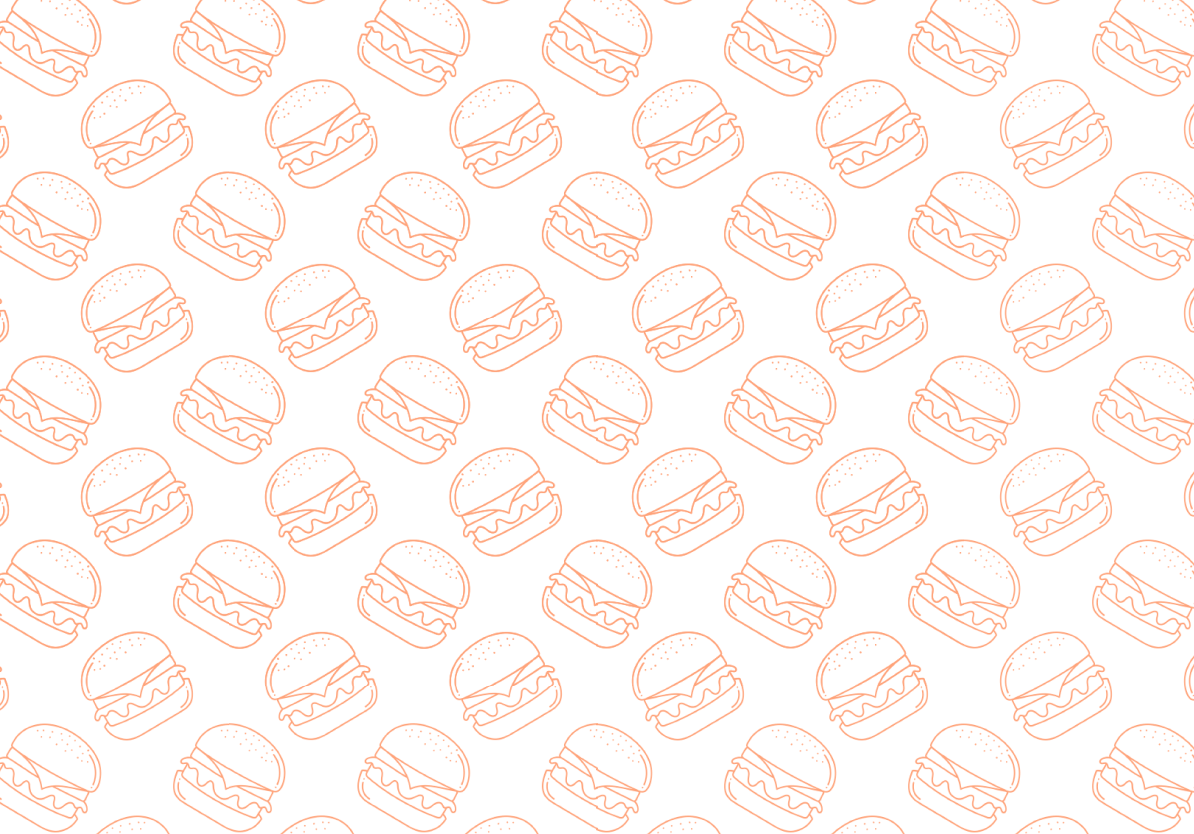
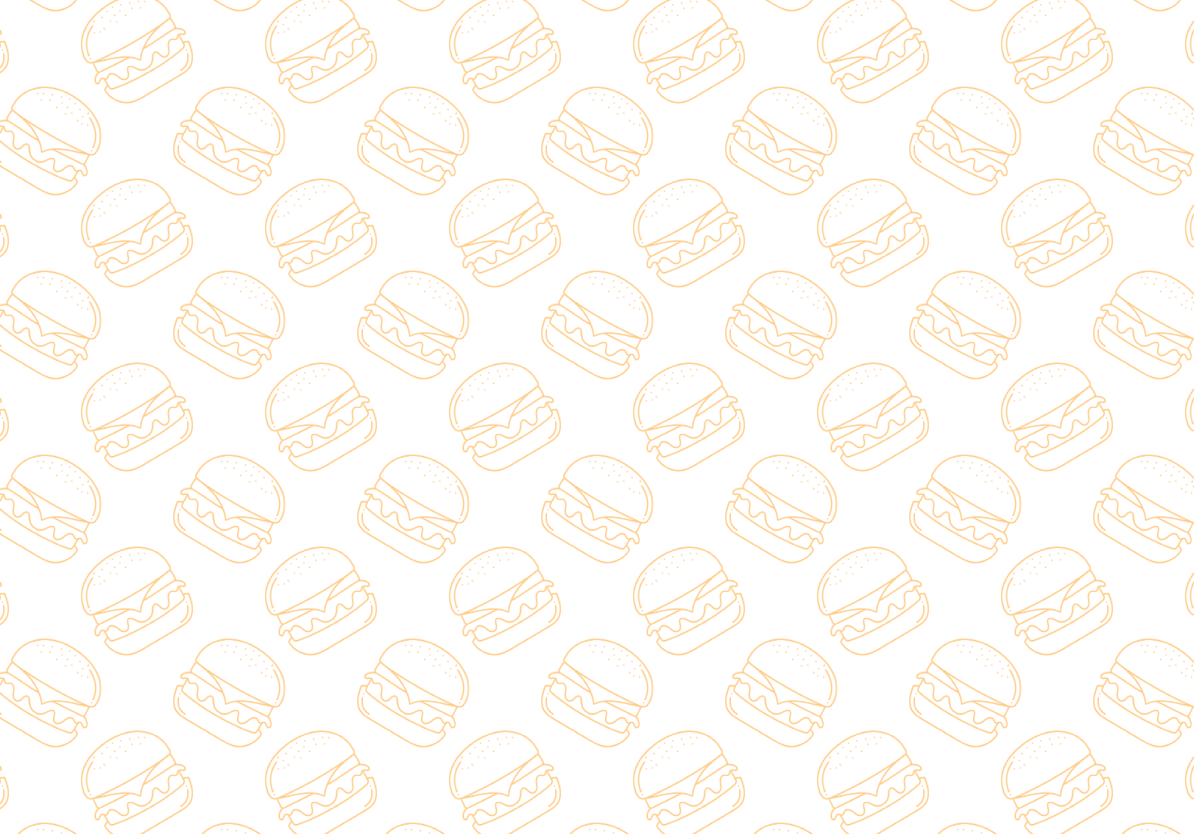
Añade estilos a MenuTab

Changed region(s): [[0.0, 0.0, 1.0, 1.0]]

diff --git a/burger queen/src/index.css b/burger queen/src/index.css
@@ -1,6 +1,7 @@
 @import url('https://fonts.googleapis.com/css2?family=Inter:wght@100;200;300;400;500;600;700;800;900&family=Satisfy&family=Sora:wght@100;200;300;400;500;600;700;800&display=swap');
-body { 
+body {
   margin: 0;
+  background-image: url('../assets/img/background_BQ.png');
 }
 
 :root {
@@ -19,68 +20,3 @@ body {
   --f-text: 'Inter', sans-serif;
   --fw-text: 400;
 }
-
-  /* color-scheme: light dark;
-  color: rgba(255, 255, 255, 0.87);
-  background-color: #242424;
-
-  font-synthesis: none;
-  text-rendering: optimizeLegibility;
-  -webkit-font-smoothing: antialiased;
-  -moz-osx-font-smoothing: grayscale;
-  -webkit-text-size-adjust: 100%;
-}
-
-a {
-  font-weight: 500;
-  color: #646cff;
-  text-decoration: inherit;
-}
-a:hover {
-  color: #535bf2;
-}
-
-body {
-  margin: 0;
-  display: flex;
-  place-items: center;
-  min-width: 320px;
-  min-height: 100vh;
-}
-
-h1 {
-  font-size: 3.2em;
-  line-height: 1.1;
-}
-
-button {
-  border-radius: 8px;
-  border: 1px solid transparent;
-  padding: 0.6em 1.2em;
-  font-size: 1em;
-  font-weight: 500;
-  font-family: inherit;
-  background-color: #1a1a1a;
-  cursor: pointer;
-  transition: border-color 0.25s;
-}
-button:hover {
-  border-color: #646cff;
-}
-button:focus,
-button:focus-visible {
-  outline: 4px auto -webkit-focus-ring-color;
-}
-
-@media (prefers-color-scheme: light) {
-  :root {
-    color: #213547;
-    background-color: #ffffff;
-  }
-  a:hover {
-    color: #747bff;
-  }
-  button {
-    background-color: #f9f9f9;
-  }
-} */

diff --git a/burger queen/src/assets/components/Aside.jsx b/burger queen/src/assets/components/Aside.jsx
@@ -13,7 +13,7 @@ export const AsideBar = () => {
             data-bs-target='#orders-collapse'
             aria-expanded='false'
           >
-            <i className='bi bi-plus me-2'></i> Nueva orden
+            <i className="bi bi-plus-circle-dotted"></i> Nueva orden
           </button>
         </li>
         <li className='mb-1'>
@@ -23,7 +23,7 @@ export const AsideBar = () => {
             data-bs-target='#account-collapse'
             aria-expanded='false'
           >
-            <i className='bi bi-list me-2'></i> Estatus pedidos
+            <i className="bi bi-list-ul"></i> Estatus pedidos
           </button>
           <div className='collapse' id='account-collapse'>
             <ul className='btn-toggle-nav list-unstyled fw-normal pb-1 small'>
@@ -48,7 +48,6 @@ export const AsideBar = () => {
       </ul>
 
       <section className='logout side-bar'>
-        <hr />
         <a href='#' className='link-dark rounded'>
           <i className='bi bi-box-arrow-right'></i>Salir
         </a>

diff --git a/burger queen/src/assets/components/Menu-tab.css b/burger queen/src/assets/components/Menu-tab.css
@@ -1,26 +1,36 @@
+.menu-tab {
+  display: flex;
+  height: 80%;
+  width: 80%;
+  position: absolute;
+  margin: 6em 4em 3em 10em
+}
+
 .tab {
   display: flex;
-  justify-content: center;
   margin-bottom: 20px;
+  height: 3em;
+  width: 50%;
+  color: black;
+  justify-content: center;
+  align-items: flex-end;
 }
 
 .tab button {
-  background-color: transparent;
-  border: none;
-  color: #333;
-  font-size: 18px;
-  font-weight: 600;
-  padding: 10px 20px;
-  margin-right: 10px;
-  cursor: pointer;
+  border-radius: 15px 15px 0px 0px;
+  border-top: 1px solid #CCC;
+  border-right: 1px solid #CCC;
+  border-left: 1px solid #CCC;
+  background: #FFF;
 }
 
 .tab button.active {
+  height: 4em;
   background-color: #f9a826;
-  color: #fff;
-  border-radius: 4px;
+  color: #000;
+  border-radius: 15px 15px 0 0;
 }
 
 .tabcontent {
-  margin-top: 20px;
+  height: 80%;
 }

diff --git a/burger queen/src/routes/login.css b/burger queen/src/routes/login.css
@@ -16,12 +16,13 @@
     display: flex;
     height: auto;
     width: 48vw;
-    background-color: #E41900;
+    background-color: #ff6d00;
     justify-content: center;
     align-items: center;
   }
     .logo img {
-      height: 27em;
+      margin-left: 1em;
+      height: 29em;
       width: auto;
     }
 
@@ -72,7 +73,7 @@
         margin: 1.1em 0 1.2em;
         align-self: center;
         background-color: #FFF8EB;
-        border-color: #E41900;
+        border-color: #ff6d00;
         border-radius: 15px;
         font-family: var(--f-placeholder);
         font-weight: var(--fw-placeholder);
@@ -92,7 +93,7 @@
     font-weight: var(--fw-buttons);
     font-size: 1.2em;
     color: white;
-    background-color: #E41900;
+    background-color: #ff6d00;
     border: none;
     border-radius: 15px;
   }

diff --git a/burger queen/src/assets/components/Aside.css b/burger queen/src/assets/components/Aside.css
@@ -13,8 +13,6 @@ main {
   height: 100vh;
   height: -webkit-fill-available;
   max-height: 100vh;
-  overflow-x: auto;
-  overflow-y: hidden;
 }
 
 .options-waiter {
@@ -42,8 +40,9 @@ main {
 
 .bi {
   margin-left: -0.86rem;
+  margin-right: .5em;
   pointer-events: none;
-  fill: currentColor;
+  color: black;
 }
 
 .bi.bi-box-arrow-right {
@@ -66,7 +65,7 @@ main {
   font-weight: var(--fw-panel);
   line-height: 1.4rem;
   text-align: left;
-  color: rgba(0, 0, 0, 0.65);
+  color: rgba(0, 0, 0);
   background-color: transparent;
   border: 0;
 }
@@ -103,10 +102,6 @@ main {
 .btn-toggle-nav a:hover,
 .btn-toggle-nav a:focus {
   background-color: #fff586;
-}
-
-.scrollarea {
-  overflow-y: auto;
 }
 
 .lh-tight {

diff --git a/burger queen/src/routes/waiter.css b/burger queen/src/routes/waiter.css
@@ -4,9 +4,9 @@ body {
 
 header{
   display: flex;
-  background-color: #E41900;
+  background-color: #ff6d00;
   height: 70px;
-  width: 100vw;
+  width: 100%;
   z-index: 20;
 }
 nav{
@@ -31,8 +31,4 @@ aside {
   display: flex;
   flex-direction: column;
   min-height: 100vh;
-}
-
-.menu-tab {
-  overflow-y: auto;
 }

diff --git a/burger queen/index.html b/burger queen/index.html
@@ -4,7 +4,6 @@
     <meta charset="UTF-8" />
     <link rel="icon" type="image/png" href="icon_logo.png"/>
     <meta name="viewport" content="width=device-width, initial-scale=1.0" />
-    <style></style>
     <title>Burger Queen</title>
 
   </head>

diff --git a/burger queen/src/routes/waiter.jsx b/burger queen/src/routes/waiter.jsx
@@ -1,3 +1,4 @@
+import '../index.css';
 import "./waiter.css";
 import { AsideBar } from '../assets/components/Aside.jsx';
 import { MenuTab } from "../assets/components/Menu-tab";
